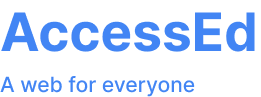
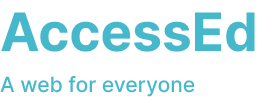
update color palette

Changed region(s): [[0.0, 0.1237, 0.9808, 0.5567], [0.0, 0.7732, 0.7663, 0.9897]]

diff --git a/content.js b/content.js
@@ -325,7 +325,7 @@ function createZoomLens() {
   zoomLens.id = "whisper-zoom-lens";
   zoomLens.setAttribute("aria-hidden", "true"); // Hide from screen readers
   zoomLens.style.position = "absolute";
-  zoomLens.style.border = "solid blue";
+  zoomLens.style.border = "solid green";
   zoomLens.style.borderWidth = "150px";
   zoomLens.style.borderRadius = "50%";
   zoomLens.style.width = `${LENS_SIZE}px`;
@@ -694,7 +694,7 @@ async function handleImageHover(event) {
     
     if (!description) {
       // Show loading indicator
-      img.style.outline = "2px dashed #4285F4";
+      img.style.outline = "2px dashed #46B8CC";
       
       // Try to use alt text first if available and meaningful
       if (img.alt && img.alt.length > 3 && img.alt !== "image") {
@@ -785,7 +785,7 @@ function handleKeyboardNavigation(event) {
         state.zoomLensActive = !state.zoomLensActive;
         updateFeatureStates();
         event.preventDefault();
-        showNotification(`Zoom lens ${state.zoomLensActive ? 'enabled' : 'disabled'}`);
+        showNotification(`Bigger Cursor ${state.zoomLensActive ? 'enabled' : 'disabled'}`);
         break;
         
       case 'r': // Ctrl+R to toggle read aloud
@@ -815,10 +815,10 @@ function registerKeyboardShortcuts() {
       
       if (state.isActive) {
         enableExtension();
-        showNotification("Accessibility assistant enabled");
+        showNotification("AccessEd enabled");
       } else {
         disableExtension();
-        showNotification("Accessibility assistant disabled");
+        showNotification("AccessEd disabled");
       }
       
       // Update storage

diff --git a/popup.html b/popup.html
@@ -37,7 +37,7 @@
       align-items: center;
       margin-bottom: 16px;
       padding-bottom: 16px;
-      border-bottom: 1px solid #eee;
+      border-bottom: 1px solid #F7F6EF;
     }
     
     .toggle {
@@ -78,7 +78,7 @@
     }
     
     input:checked + .slider {
-      background-color: #4285F4;
+      background-color: #46B8CC;
     }
     
     input:checked + .slider:before {
@@ -100,14 +100,14 @@
       width: 100%;
       padding: 6px;
       border-radius: 4px;
-      border: 1px solid #EF7452;
+      border: 1px solid #ff7f7f;
       font-size: 16px;
     }
     
     .features-section {
       margin-top: 16px;
       padding-top: 12px;
-      border-top: 1px solid #eee;
+      border-top: 1px solid #F7F6EF;
     }
     
     .feature-row {
@@ -119,7 +119,7 @@
     
     .feature-description {
       font-size: 16px;
-      color: #666;
+      color: #ff7f7f;
       margin-top: -8px;
       margin-bottom: 12px;
     }
@@ -127,17 +127,17 @@
     .status {
       margin-top: 16px;
       padding: 8px;
-      background-color: #f5f5f5;
+      background-color: #F7F6EF;
       border-radius: 4px;
       font-size: 20px;
-      color: #666;
+      color: #333;
     }
 
     
     .shortcuts {
       margin-top: 16px;
       font-size: 16px;
-      color: #666;
+      color: #ff7f7f;
     }
     
     .shortcuts h3 {
@@ -154,7 +154,7 @@
       margin-top: 20px;
       text-align: center;
       font-size: 16px;
-      color: #999;
+      color: #ff7f7f;
     }
     
     .voice-selection {

diff --git a/popup.js b/popup.js
@@ -26,7 +26,7 @@ document.addEventListener("DOMContentLoaded", function () {
   initializeVoiceSelection();
 
   // Load settings
-  setTimeout(loadSettings, 100);
+  setTimeout(loadSettings, 30);
 
   // Check current status from active tab
   checkTabStatus();
@@ -180,7 +180,7 @@ document.addEventListener("DOMContentLoaded", function () {
         status.textContent = "Enabled, but no features are active. Enable features above.";
       }
     } else {
-      status.textContent = "Disabled: Enable the toggle to start using Whisper Web";
+      status.textContent = "Disabled: Enable the toggle to start using AccessEd";
     }
   }
 
